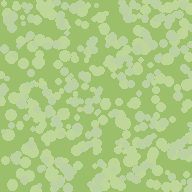
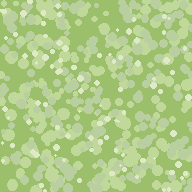
地形の仮絵を「真上から見た地面の模様」に描き直し、資材の同期を修正
斜め見下ろし表示では画像が縦0.6倍に潰れる。草や岩肌のような地面の模様なら
潰れても自然に見えるが、木や建物を横から見た形で描くと上下に潰れて不自然に
なっていた。そこで仮絵をすべて真上視点で描き直した。

- 森は樹冠、街は屋根、工場はのこぎり屋根の稜線、山は岩肌と残雪、丘は等高線状の
  むら、港は岸壁と係船柱を、それぞれ真上から見た形にした
- 基調色を terrain.def の color と揃えた（タイル側面＝崖は color で塗るので、
  ずれていると天面と側面が食い違って見える）
- これで平面/斜めで画像を分ける必要がなく、1種類で両対応できる

あわせて、データ・画像の差し替えがビルドに反映されない問題を修正した。
data/ と assets/ のコピーが hexwars の POST_BUILD だったため、.def や PNG だけ
変更しても exe が再リンクされずコピーが走らなかった（実際に描き直した絵が
反映されず古い絵のままになった）。毎回走る専用ターゲットに分離し、CMake 3.26
以降では copy_directory_if_different で変更ぶんだけ書くようにした。

diff --git a/hexwars/tools/gen_terrain_gfx.py b/hexwars/tools/gen_terrain_gfx.py
@@ -4,9 +4,16 @@
     python tools/gen_terrain_gfx.py
 
 assets/gfx/terrain/*.png を作る。terrain.def の `image =` から参照される。
-描画側は**六角形の内側にクリップして**貼るので、画像は正方形で全面を塗り、
-六角形からはみ出す四隅は見えなくなる前提で描いてよい。
-差し替えるときは同じサイズ・正方形の PNG を上書きすればよい（再ビルド不要）。
+
+**すべて「真上から見た地面の模様」として描くこと。**
+斜め見下ろし表示では画像が縦0.6倍に潰れる。地面の模様なら潰れても自然に見える
+（奥行きで縮んでいるだけに見える）が、木や建物を横から見た形で描くと上下に
+潰れて不自然になる。森は樹冠を、街は屋根を、山は岩肌を、それぞれ真上から
+見た形で描いている。
+
+描画側は六角形の内側にクリップして貼るので、正方形PNGで全面を塗ればよい。
+基調色は terrain.def の color と合わせてある（タイル側面＝崖はその color で
+塗られるため、ずらすと天面と側面が食い違って見える）。
 """
 import math
 import os
@@ -30,7 +37,7 @@ def save(img, name):
 
 
 def grain(d, col, n, rmin, rmax, seed):
-    """細かい粒を撒いて単色っぽさを消す。"""
+    """細かい粒を撒いて単色っぽさを消す（真上から見た地面のざらつき）。"""
     rnd = random.Random(seed)
     for _ in range(n):
         x, y = rnd.uniform(0, S), rnd.uniform(0, S)
@@ -40,132 +47,186 @@ def grain(d, col, n, rmin, rmax, seed):
 
 def plain():
     img, d = canvas((156, 191, 107))
-    grain(d, (168, 201, 118, 190), 260, 2, 6, 1)
-    grain(d, (140, 176, 96, 150), 180, 2, 5, 2)
+    grain(d, (170, 203, 120, 190), 240, 2, 6, 1)
+    grain(d, (138, 174, 94, 150), 190, 2, 5, 2)
+    grain(d, (182, 210, 132, 120), 90, 1, 3, 3)     # 草の穂
     save(img, "plain")
 
 
 def road():
     img, d = canvas((156, 191, 107))
-    grain(d, (140, 176, 96, 150), 120, 2, 5, 3)
-    d.polygon([(0, S * 0.36), (S, S * 0.30), (S, S * 0.70), (0, S * 0.64)],
-              fill=(201, 183, 156, 255))
-    for i in range(5):                       # センターライン
+    grain(d, (138, 174, 94, 150), 130, 2, 5, 4)
+    d.polygon([(0, S * 0.34), (S, S * 0.28), (S, S * 0.72), (0, S * 0.66)],
+              fill=(201, 183, 156, 255))            # 舗装（真上）
+    grain(d, (188, 170, 144, 120), 60, 2, 5, 5)
+    for i in range(5):                              # センターライン
         x = S * (0.08 + i * 0.2)
-        d.rounded_rectangle([x, S * 0.47, x + S * 0.1, S * 0.52], 4,
-                            fill=(226, 214, 190, 255))
+        d.rounded_rectangle([x, S * 0.46, x + S * 0.1, S * 0.51], 4,
+                            fill=(228, 217, 194, 255))
     save(img, "road")
 
 
 def forest():
-    img, d = canvas((110, 150, 84))
-    grain(d, (98, 138, 74, 160), 140, 3, 7, 4)
-    rnd = random.Random(5)
-    for _ in range(11):                      # 樹冠
-        cx, cy = rnd.uniform(20, S - 20), rnd.uniform(24, S - 16)
-        r = rnd.uniform(18, 27)
-        d.ellipse([cx - r * 0.5, cy - 4, cx + r * 0.5, cy + r * 0.7],
-                  fill=(74, 58, 42, 255))    # 幹
-        d.polygon([(cx, cy - r), (cx + r * 0.8, cy + r * 0.4),
-                   (cx - r * 0.8, cy + r * 0.4)], fill=(85, 136, 79, 255))
-        d.polygon([(cx, cy - r * 0.6), (cx + r * 0.62, cy + r * 0.5),
-                   (cx - r * 0.62, cy + r * 0.5)], fill=(99, 154, 90, 255))
+    """樹冠を真上から見た形。幹は描かない（横から見た形にしないため）。"""
+    img, d = canvas((78, 112, 66))                  # 林床（影）
+    grain(d, (68, 100, 58, 170), 150, 4, 9, 6)
+    rnd = random.Random(7)
+    blobs = []
+    for _ in range(15):
+        blobs.append((rnd.uniform(14, S - 14), rnd.uniform(14, S - 14),
+                      rnd.uniform(22, 34)))
+    for cx, cy, r in blobs:                         # 影を先に（重なりを出す）
+        d.ellipse([cx - r, cy - r * 0.94, cx + r, cy + r], fill=(58, 88, 52, 255))
+    for cx, cy, r in blobs:                         # 樹冠
+        d.ellipse([cx - r * 0.86, cy - r * 0.86, cx + r * 0.78, cy + r * 0.78],
+                  fill=(90, 138, 82, 255))
+        d.ellipse([cx - r * 0.5, cy - r * 0.62, cx + r * 0.24, cy + r * 0.06],
+                  fill=(108, 158, 96, 255))         # 陽の当たる側
     save(img, "forest")
 
 
 def mountain():
+    """岩肌を真上から見た形。稜線は面の色差で表す（横向きの三角は描かない）。"""
     img, d = canvas((141, 133, 120))
-    grain(d, (128, 121, 110, 170), 150, 3, 7, 6)
-    d.polygon([(S * 0.5, 26), (S * 0.94, S - 22), (S * 0.06, S - 22)],
-              fill=(122, 115, 104, 255))
-    d.polygon([(S * 0.5, 26), (S * 0.72, S - 22), (S * 0.28, S - 22)],
-              fill=(158, 150, 137, 255))
-    d.polygon([(S * 0.5, 26), (S * 0.63, S * 0.44), (S * 0.37, S * 0.44)],
-              fill=(232, 232, 228, 255))     # 冠雪
+    rnd = random.Random(8)
+    for _ in range(16):                             # 岩の面（多角形）
+        cx, cy = rnd.uniform(0, S), rnd.uniform(0, S)
+        r = rnd.uniform(26, 52)
+        n = rnd.randint(4, 6)
+        a0 = rnd.uniform(0, 6.28)
+        pts = [(cx + r * math.cos(a0 + 6.283 * i / n) * rnd.uniform(0.6, 1.0),
+                cy + r * math.sin(a0 + 6.283 * i / n) * rnd.uniform(0.6, 1.0))
+               for i in range(n)]
+        g = rnd.randint(-18, 20)
+        d.polygon(pts, fill=(141 + g, 133 + g, 120 + g, 255))
+    for _ in range(5):                              # 残雪（真上から見た斑）
+        cx, cy = rnd.uniform(20, S - 20), rnd.uniform(20, S - 20)
+        r = rnd.uniform(14, 26)
+        n = rnd.randint(5, 7)
+        pts = [(cx + r * math.cos(6.283 * i / n) * rnd.uniform(0.55, 1.0),
+                cy + r * math.sin(6.283 * i / n) * rnd.uniform(0.55, 1.0))
+               for i in range(n)]
+        d.polygon(pts, fill=(228, 230, 230, 235))
+    grain(d, (120, 113, 102, 130), 120, 2, 5, 9)    # 砂礫
     save(img, "mountain")
 
 
 def hill():
+    """乾いた草地を真上から。等高線状のむらで起伏を示す。"""
     img, d = canvas((168, 162, 118))
-    grain(d, (154, 149, 106, 160), 170, 3, 7, 7)
-    d.ellipse([S * 0.02, S * 0.34, S * 0.62, S * 0.98], fill=(182, 176, 130, 255))
-    d.ellipse([S * 0.40, S * 0.46, S * 0.99, S * 1.02], fill=(160, 154, 112, 255))
+    rnd = random.Random(10)
+    for k in range(4):                              # 等高線（同心の崩れた輪）
+        r = S * (0.46 - k * 0.09)
+        pts = []
+        for i in range(24):
+            a = 6.283 * i / 24
+            rr = r * rnd.uniform(0.88, 1.12)
+            pts.append((S / 2 + rr * math.cos(a), S / 2 + rr * math.sin(a) * 0.96))
+        d.polygon(pts, fill=(168 + 8 * (k + 1), 162 + 8 * (k + 1),
+                             118 + 7 * (k + 1), 255))
+    grain(d, (152, 147, 105, 150), 180, 2, 6, 11)
+    grain(d, (190, 184, 138, 110), 90, 1, 4, 12)
     save(img, "hill")
 
 
 def water(base, light, seed, name):
     img, d = canvas(base)
-    grain(d, light + (90,), 120, 6, 16, seed)
+    grain(d, light + (80,), 130, 6, 16, seed)
     rnd = random.Random(seed + 1)
-    for _ in range(16):                      # さざ波
-        x, y = rnd.uniform(8, S - 48), rnd.uniform(8, S - 8)
-        w = rnd.uniform(22, 44)
-        d.arc([x, y, x + w, y + 12], 200, 340, fill=light + (200,), width=3)
-    img = img.filter(ImageFilter.GaussianBlur(0.6))
+    for _ in range(18):                             # さざ波（真上）
+        x, y = rnd.uniform(4, S - 46), rnd.uniform(4, S - 8)
+        w = rnd.uniform(24, 46)
+        d.arc([x, y, x + w, y + 11], 200, 340, fill=light + (190,), width=3)
+    img = img.filter(ImageFilter.GaussianBlur(0.7))
     save(img, name)
 
 
 def city():
-    img, d = canvas((196, 196, 188))
-    grain(d, (182, 182, 174, 150), 120, 3, 7, 9)
-    rnd = random.Random(10)
-    for _ in range(7):                       # 建物ブロック
-        w = rnd.uniform(26, 42)
-        h = rnd.uniform(30, 56)
-        x = rnd.uniform(10, S - w - 10)
-        y = rnd.uniform(20, S - h - 12)
-        d.rectangle([x, y, x + w, y + h], fill=(168, 168, 162, 255))
-        d.rectangle([x, y, x + w, y + 7], fill=(210, 210, 202, 255))
-        for r in range(2):                   # 窓
-            for c in range(2):
-                wx = x + 7 + c * (w * 0.45)
-                wy = y + 14 + r * (h * 0.38)
-                d.rectangle([wx, wy, wx + 8, wy + 9], fill=(120, 126, 134, 255))
+    """屋根を真上から。壁や窓は描かない（横から見た形にしないため）。"""
+    img, d = canvas((150, 148, 142))                # 路面
+    grain(d, (138, 136, 130, 150), 110, 3, 7, 13)
+    rnd = random.Random(14)
+    roofs = [(0.06, 0.06, 0.40, 0.40), (0.52, 0.04, 0.42, 0.34),
+             (0.05, 0.54, 0.34, 0.40), (0.46, 0.46, 0.30, 0.28),
+             (0.80, 0.44, 0.18, 0.50), (0.44, 0.80, 0.34, 0.18)]
+    for rx, ry, rw, rh in roofs:
+        x0, y0 = S * rx, S * ry
+        x1, y1 = x0 + S * rw, y0 + S * rh
+        base = rnd.choice([(196, 194, 186), (208, 206, 198), (182, 180, 174)])
+        d.rectangle([x0, y0, x1, y1], fill=base + (255,))
+        d.rectangle([x0, y0, x1, y1], outline=(126, 124, 120, 255), width=2)
+        for _ in range(2):                          # 屋上の設備
+            ux = rnd.uniform(x0 + 6, max(x0 + 7, x1 - 18))
+            uy = rnd.uniform(y0 + 6, max(y0 + 7, y1 - 18))
+            d.rectangle([ux, uy, ux + 12, uy + 12], fill=(160, 158, 152, 255))
     save(img, "city")
 
 
 def factory():
-    img, d = canvas((176, 162, 148))
-    grain(d, (162, 149, 136, 150), 110, 3, 7, 11)
-    d.rectangle([S * 0.12, S * 0.44, S * 0.88, S * 0.86], fill=(150, 138, 126, 255))
-    for i in range(3):                       # のこぎり屋根
-        x = S * (0.14 + i * 0.25)
-        d.polygon([(x, S * 0.44), (x + S * 0.22, S * 0.44),
-                   (x + S * 0.22, S * 0.28)], fill=(186, 174, 160, 255))
-    d.rectangle([S * 0.70, S * 0.14, S * 0.80, S * 0.46], fill=(132, 120, 110, 255))
+    """のこぎり屋根を真上から見た平行の稜線として描く。"""
+    img, d = canvas((150, 138, 126))
+    grain(d, (138, 127, 116, 150), 100, 3, 7, 15)
+    d.rectangle([S * 0.06, S * 0.16, S * 0.94, S * 0.74], fill=(178, 166, 152, 255))
+    d.rectangle([S * 0.06, S * 0.16, S * 0.94, S * 0.74],
+                outline=(120, 110, 100, 255), width=2)
+    for i in range(6):                              # 屋根の稜線
+        y = S * (0.19 + i * 0.093)
+        d.rectangle([S * 0.07, y, S * 0.93, y + S * 0.028],
+                    fill=(200, 190, 176, 255))
+        d.rectangle([S * 0.07, y + S * 0.028, S * 0.93, y + S * 0.052],
+                    fill=(150, 140, 128, 255))
+    for cx in (0.20, 0.44):                         # タンク（真上＝円）
+        d.ellipse([S * cx, S * 0.80, S * (cx + 0.15), S * 0.95],
+                  fill=(166, 158, 148, 255), outline=(120, 112, 104, 255), width=2)
     save(img, "factory")
 
 
 def airport():
-    img, d = canvas((186, 186, 198))
-    grain(d, (172, 172, 184, 150), 110, 3, 7, 12)
-    d.polygon([(0, S * 0.30), (S, S * 0.24), (S, S * 0.76), (0, S * 0.70)],
-              fill=(160, 160, 172, 255))     # 滑走路
-    for i in range(6):
-        x = S * (0.06 + i * 0.16)
-        d.rectangle([x, S * 0.48, x + S * 0.08, S * 0.53],
-                    fill=(232, 232, 238, 255))
+    img, d = canvas((150, 152, 160))
+    grain(d, (140, 142, 150, 150), 110, 3, 7, 16)
+    d.polygon([(0, S * 0.30), (S, S * 0.25), (S, S * 0.75), (0, S * 0.70)],
+              fill=(178, 180, 190, 255))            # 滑走路（真上）
+    for i in range(6):                              # 中心線
+        x = S * (0.05 + i * 0.16)
+        d.rectangle([x, S * 0.49, x + S * 0.09, S * 0.53],
+                    fill=(236, 238, 244, 255))
+    d.rectangle([0, S * 0.30, S, S * 0.325], fill=(206, 208, 216, 255))
+    d.rectangle([0, S * 0.675, S, S * 0.70], fill=(206, 208, 216, 255))
     save(img, "airport")
 
 
 def port():
-    img, d = canvas((120, 156, 180))
-    grain(d, (108, 144, 168, 150), 110, 4, 10, 13)
-    d.rectangle([0, 0, S, S * 0.46], fill=(168, 178, 186, 255))    # 岸壁
-    d.rectangle([0, S * 0.42, S, S * 0.50], fill=(140, 148, 156, 255))
-    for i in range(4):                        # 係船柱
-        x = S * (0.12 + i * 0.24)
-        d.ellipse([x, S * 0.30, x + 14, S * 0.30 + 14], fill=(96, 102, 110, 255))
+    img, d = canvas((92, 138, 176))                 # 海面
+    grain(d, (120, 164, 200, 110), 90, 5, 13, 17)
+    d.polygon([(0, 0), (S, 0), (S, S * 0.44), (0, S * 0.52)],
+              fill=(168, 172, 178, 255))            # 岸壁（真上）
+    grain(d, (156, 160, 166, 130), 70, 3, 7, 18)
+    d.polygon([(0, S * 0.44), (S, S * 0.37), (S, S * 0.44), (0, S * 0.52)],
+              fill=(132, 136, 142, 255))            # 岸のふち
+    for i in range(4):                              # 係船柱（真上＝円）
+        x = S * (0.10 + i * 0.25)
+        y = S * (0.34 - i * 0.018)
+        d.ellipse([x, y, x + 13, y + 13], fill=(96, 100, 106, 255))
     save(img, "port")
 
 
 def hq():
-    img, d = canvas((214, 199, 102))
-    grain(d, (200, 186, 92, 150), 110, 3, 7, 14)
-    d.rectangle([S * 0.18, S * 0.40, S * 0.82, S * 0.86], fill=(196, 180, 84, 255))
-    d.polygon([(S * 0.5, S * 0.18), (S * 0.86, S * 0.42), (S * 0.14, S * 0.42)],
-              fill=(228, 214, 128, 255))
-    d.rectangle([S * 0.44, S * 0.58, S * 0.56, S * 0.86], fill=(150, 136, 60, 255))
+    """大きな屋根と中庭を真上から。"""
+    img, d = canvas((198, 182, 92))
+    grain(d, (186, 170, 84, 150), 100, 3, 7, 19)
+    d.rectangle([S * 0.10, S * 0.12, S * 0.90, S * 0.88], fill=(224, 208, 118, 255))
+    d.rectangle([S * 0.10, S * 0.12, S * 0.90, S * 0.88],
+                outline=(150, 136, 62, 255), width=3)
+    d.rectangle([S * 0.34, S * 0.36, S * 0.66, S * 0.64],
+                fill=(186, 170, 84, 255))           # 中庭
+    r = S * 0.11                                     # 中庭の星章
+    cx, cy = S * 0.5, S * 0.5
+    pts = []
+    for i in range(10):
+        rr = r if i % 2 == 0 else r * 0.45
+        a = math.radians(-90 + i * 36)
+        pts.append((cx + rr * math.cos(a), cy + rr * math.sin(a)))
+    d.polygon(pts, fill=(240, 228, 150, 255))
     save(img, "hq")
 
 
